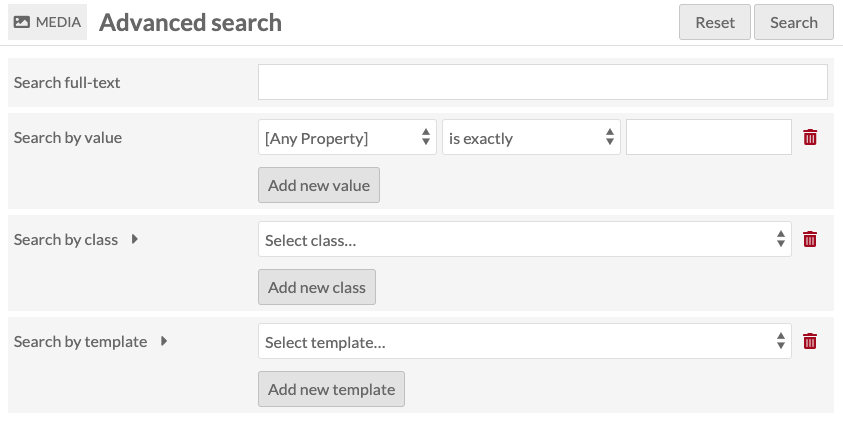
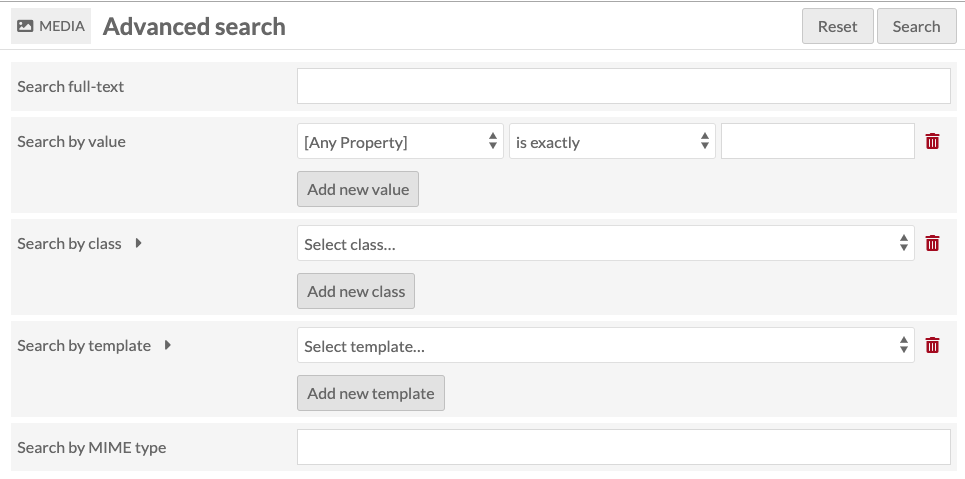
Media search

diff --git a/docs/content/media.md b/docs/content/media.md
@@ -33,7 +33,7 @@ Options for navigating and creating items display above the table of items.
 
 On the left side is a display for the number of pages of media, with forward and back arrows. The current page number is an editable field - enter any valid page number and hit return/enter on your keyboard to go to that page. 
 
-In the center top is a button for [Advanced Search](../search.md). 
+In the center top is a button for [Advanced Search](../../search#media-advanced-search). 
 
 Just above the table on the right are options for sorting media, with two dropdown menus. The first lets you select between *Title*, *Class*, *Owner,* and *(date)Created*; the second allows you to sort ascending or descending. To apply, click the *sort* button.
 

diff --git a/docs/search.md b/docs/search.md
@@ -88,6 +88,8 @@ You can remove value searches using the red trash can icon to the right of the v
 
 *Search by template:* select a resource template from the dropdown. Templates are arranged by owner, then alphabetically.
 
+*Search by MIME type:* you can specify the media type for the search.
+
 ![Advanced media search options form, with fields as described above.](files/search_mediaadvance2.png)
 
 Searches by value, class, and template allow you to search by more than one input - use the *add new* buttons to search with more than one value or item set. These search terms build - searching for two templates will return all media using either template. 
